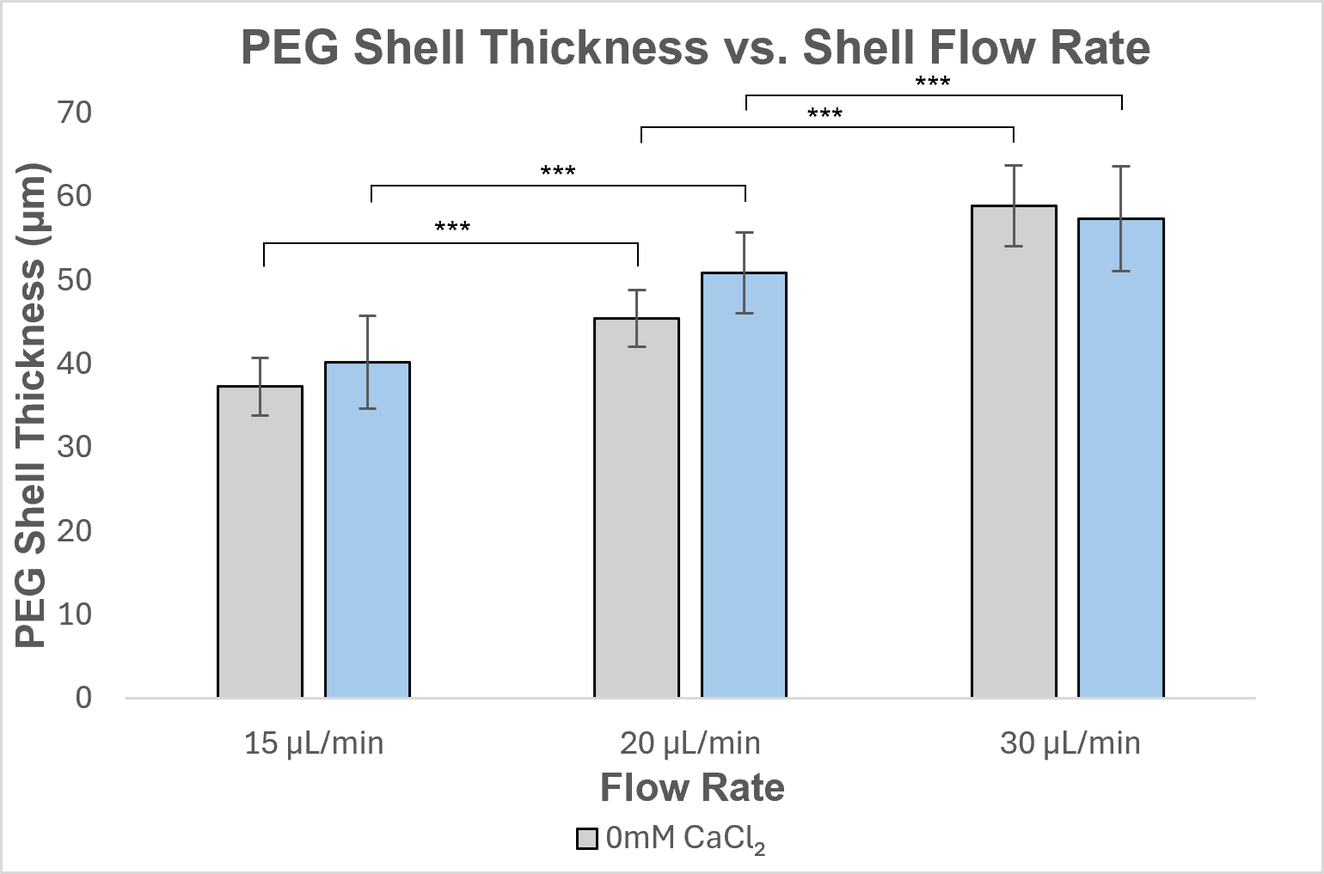
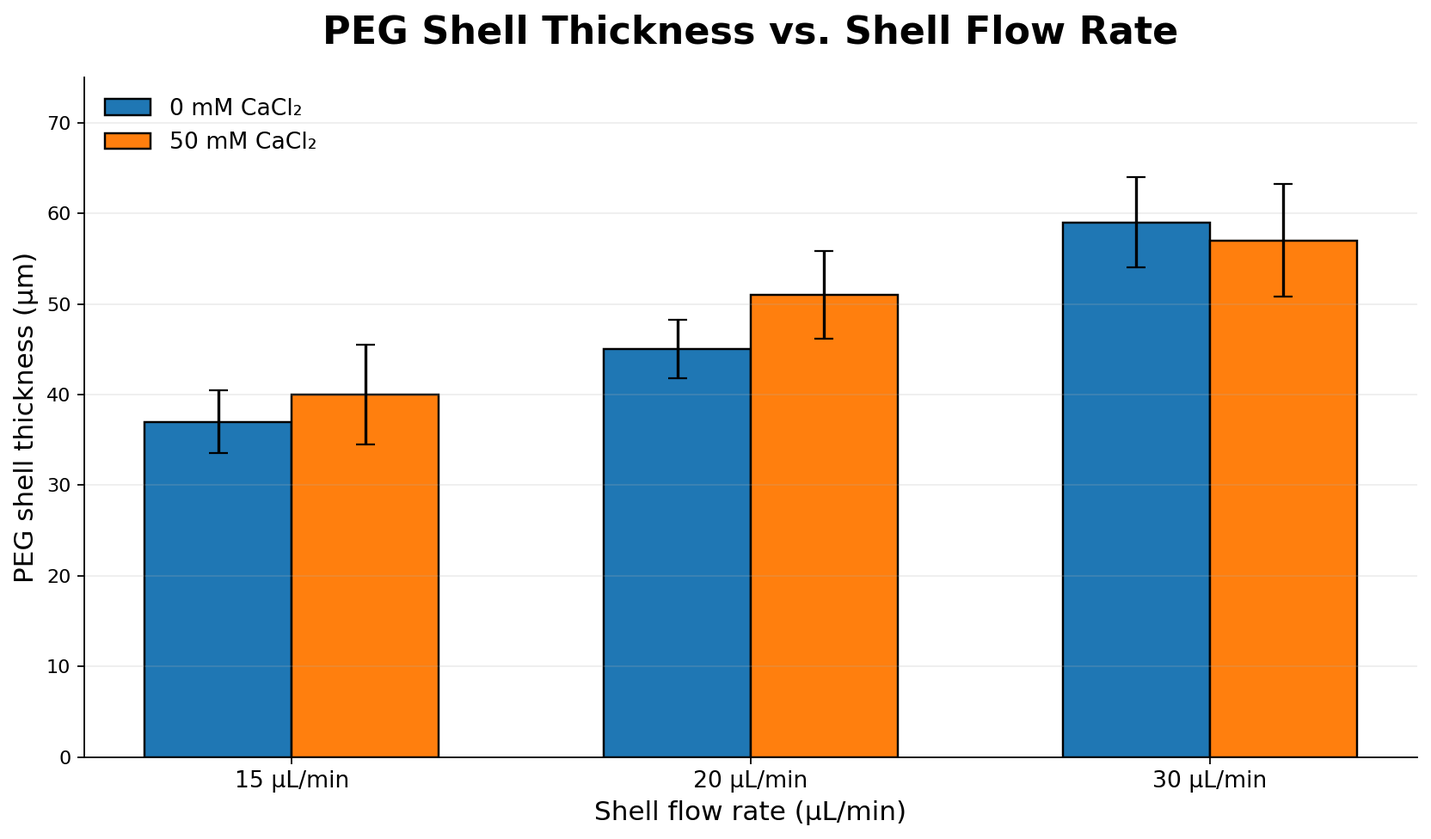
1

diff --git a/assets/css/style.css b/assets/css/style.css
@@ -1750,3 +1750,20 @@ abbr{border-bottom:0!important;text-decoration:none!important;cursor:inherit!imp
     background:rgba(5,10,24,.56)!important;
   }
 }
+
+
+/* --- Resume-specific credibility/readability pass: May 2026 --- */
+:root{--muted:#475569!important;}
+p{color:rgba(15,23,42,.88);}
+.hero-lede,.card p,.case-card p,.portfolio-card p,.artifact-wall-card p,.artifact-card p,.case-file-page p{font-size:1.0625rem;}
+.technical-proof,.home-library,.project-strip,.artifact-wall-section,.case-group,.standard-card-section,.background-depth,.timeline-feature,.background-tool-sidebar{padding-block:clamp(3.5rem,6vw,4.5rem)!important;}
+.homepage-proof-first{padding-bottom:clamp(2.75rem,5vw,4rem)!important;}
+.supporting-home-cases{padding-top:clamp(2.75rem,5vw,4rem)!important;}
+.validation-target-card figure img,.validation-target-grid img{display:block;width:100%;max-width:720px;height:auto;min-height:260px;object-fit:contain;}
+.setup-artifact-card .artifact-image-frame img,.frame-photo img{display:block;width:100%;height:auto;object-fit:contain;}
+.resume-specificity-callout,.lead-result-callout,.leadership-grid{border:1px solid rgba(8,112,139,.16);background:#fff;border-radius:24px;box-shadow:0 18px 48px rgba(15,23,42,.06);padding:clamp(22px,3vw,34px);}
+.resume-specificity-callout strong,.lead-result-callout strong{color:#07111f;}
+.leadership-grid{display:grid;grid-template-columns:repeat(2,minmax(0,1fr));gap:18px;}
+.leadership-grid article{padding:20px;border-radius:18px;background:#f8fafc;border:1px solid rgba(15,23,42,.08);}
+.leadership-grid h3{margin-top:0;}
+@media(max-width:800px){.leadership-grid{grid-template-columns:1fr;}}

diff --git a/index.html b/index.html
@@ -26,8 +26,8 @@ body_class: home-page
  <div class="content-shell">
   <div class="section-heading plain-heading">
    <p class="system-label main-label">Technical screen artifacts</p>
-   <h2>Three artifacts I can walk through in a technical screen.</h2>
-   <p>Each visual connects a physical observation to a process metric or decision.</p>
+   <h2>Three engineering artifacts behind my process work.</h2>
+   <p>Each visual connects a physical observation to a process metric, design-of-experiments (DOE) screen, or decision.</p>
   </div>
   <div class="artifact-wall three-artifact-wall compact-artifact-wall">
    <article class="artifact-wall-card">

diff --git a/projects/micromodular-deposition/index.md b/projects/micromodular-deposition/index.md
@@ -21,7 +21,7 @@ affiliation: Filler Lab · Georgia Tech
   <p class="artifact-label">SYSTEM ROADMAP</p>
   <h2>Where the deposition screen fits</h2>
   <p>The larger process is to fabricate discrete micromodular components, suspend them in an ink, print them into circuit locations, then analyze placement and route printed interconnects.</p>
-  <p>This case file focuses on the deposition step: choosing substrate/backing conditions that place suspended components in a pattern downstream wiring can actually use.</p>
+  <p>This case file focuses on the deposition step: choosing substrate/backing conditions that place suspended components in a pattern downstream wiring can actually use. The screen is structured as design-of-experiments (DOE) thinking: vary the substrate/backing condition, measure placement outputs, and decide whether the condition advances.</p>
  </div>
  <figure class="roadmap-overview-figure">
   <img src="{{ '/assets/images/micromodular-workflow-deposition-focus.png' | relative_url }}" alt="High-level micromodular electronics roadmap from component fabrication to circuit manufacturing, with deposition step highlighted" loading="lazy">
@@ -36,13 +36,13 @@ affiliation: Filler Lab · Georgia Tech
    <div class="artifact-image-frame frame-wide"><img src="{{ '/assets/images/artifact-microdevice-trajectory-overlay-1400.webp' | relative_url }}" alt="Microdevice trajectory overlay relative to the marked droplet center" loading="lazy"></div>
    <figcaption><strong>Figure 1. Video-derived microdevice trajectories overlaid on a microscope frame.</strong> The droplet center is marked, allowing device motion to be decomposed into radial and tangential components. This converts a qualitative drying/deposition video into a substrate-screening artifact.</figcaption>
   </figure>
-  <div class="artifact-meta table-like-meta" aria-label="Public run metadata"><span><strong>Solvent</strong> isopropyl alcohol (IPA)</span><span><strong>Public metric set</strong> radial velocity, tangential velocity, tracking coverage, edge/center deposition tendency</span><span><strong>Quantified context</strong> video-derived trajectory analysis plus AAO/device placement images support the substrate screen</span><span><strong>Analysis status</strong> representative run-level artifact; replicate-backed condition comparison is the next screen</span></div>
+  <div class="artifact-meta table-like-meta" aria-label="Run metadata"><span><strong>Solvent</strong> isopropyl alcohol (IPA)</span><span><strong>Metric set</strong> radial velocity, tangential velocity, tracking coverage, edge/center deposition tendency</span><span><strong>Screening method</strong> substrate/backing design-of-experiments (DOE) logic tied to device placement and downstream interconnect feasibility</span><span><strong>Decision output</strong> advance porous-support conditions that preserve drainage without creating edge-heavy crowding</span></div>
  </article>
  <article class="artifact-card artifact-card-wide substrate-artifact">
   <p class="artifact-label">SUBSTRATE SCREEN</p>
   <figure class="artifact-figure">
    <div class="artifact-image-frame frame-wide"><img src="{{ '/assets/images/micromodular-aao-device-comparison.webp' | relative_url }}" alt="AAO substrate baseline, AAO with deposited microdevices, and single micromodular device" loading="lazy"></div>
-   <figcaption><strong>Figure 2. AAO substrate and microdevice placement context.</strong> The comparison shows the porous anodic aluminum oxide (AAO) surface, a deposited-device field, and the individual micromodular device form factor. This makes the deposition screen specific to placement on AAO-like supports rather than reusing the workflow dashboard from the image-analysis case file.</figcaption>
+   <figcaption><strong>Figure 2. AAO substrate and microdevice placement context.</strong> The comparison shows the porous anodic aluminum oxide (AAO) surface, a deposited-device field, and the individual micromodular device form factor. This makes the deposition screen specific to placement on anodic aluminum oxide (AAO)-like supports and connects substrate choice to downstream wiring feasibility.</figcaption>
   </figure>
  </article>
  <article class="artifact-card artifact-card-wide compact-artifact">
@@ -102,7 +102,7 @@ Good deposition means uniform areal density, low edge bias, usable placement for
 ## Next run
 
 <div class="next-iteration-callout">
- <p>The next iteration should set a replicate-backed edge/center ratio and density-uniformity threshold, then compare AAO-like skins against cheaper and less brittle porous supports. The first condition to advance is the porous-support family that preserves drainage without creating edge-heavy crowding.</p>
+ <p>The next iteration should set an edge/center ratio and density-uniformity threshold, then compare AAO-like skins against cheaper and less brittle porous supports. The first condition to advance is the porous-support family that preserves drainage without creating edge-heavy crowding.</p>
 </div>
 
 ## What I owned
@@ -110,7 +110,7 @@ Good deposition means uniform areal density, low edge bias, usable placement for
 <div class="artifact-table-wrap"><table class="artifact-table"><thead><tr><th>Area</th><th>Contribution</th></tr></thead><tbody>
 <tr><td>Experimental design</td><td>Substrate/backing comparisons, droplet setup, run-to-run comparison, and early screen logic.</td></tr>
 <tr><td>Imaging</td><td>Top-view and side-view capture for footprint, contact-line, and final placement behavior.</td></tr>
-<tr><td>Analysis</td><td>Python/ImageJ extraction of normalized contact-line traces and deposition metrics.</td></tr>
+<tr><td>Analysis</td><td>Python/OpenCV and ImageJ extraction of normalized contact-line traces, placement metrics, and deposition-screen outputs.</td></tr>
 <tr><td>Decision output</td><td>Early gate for whether a substrate/backing condition should advance toward downstream interconnect printing.</td></tr>
 </tbody></table></div>
 

diff --git a/projects/printed-interconnect-reliability/index.md b/projects/printed-interconnect-reliability/index.md
@@ -8,9 +8,9 @@ prev_title: Micromodular Electronics Deposition
 prev_url: /projects/micromodular-deposition/
 next_title: Thermocycler Process Automation
 next_url: /projects/thermocycler-process-automation/
-metric_chips: '<span>Failure logic</span><span>Normalized resistance drift screen</span>'
-description: Printed interconnect reliability case file using resistance drift, stress intervals, and failure classes to guide upstream process checks.
-subtitle: Printed-line testing reframed as a reliability screen that maps resistance behavior back to upstream process checks.
+metric_chips: '<span>4-point probe · Keithley SMU</span><span>~30% yield-loss reduction</span>'
+description: Printed interconnect reliability case file using 4-point probe, Keithley SMU measurements, normalized resistance drift, and failure classes to guide upstream process checks.
+subtitle: 4-point probe and Keithley SMU reliability screening mapped resistance behavior back to upstream print, cure, stress, and measurement checks.
 body_class: case-file-page printed-interconnect-reliability
 affiliation: Filler Lab · Georgia Tech
 ---
@@ -30,23 +30,23 @@ affiliation: Filler Lab · Georgia Tech
    <figcaption><strong>Figure 2. Representative normalized resistance drift screen.</strong> Resistance normalized to its initial value as a resistance ratio (R/R₀) separates stable traces, smooth drift, intermittent behavior, and threshold crossings that should trigger upstream process checks.</figcaption>
   </figure>
  </article>
- <article class="artifact-card artifact-card-wide evidence-status-card">
-  <p class="artifact-label">EVIDENCE STATUS</p>
-  <h2>Public view shows the screen architecture and failure-decision logic.</h2>
-  <p>Stress-protocol data and microscope evidence can be discussed separately where appropriate. This public page shows the control-plan structure: what should be measured, how failure classes map upstream, and how normalized resistance drift can reveal process-built vulnerability without exposing full unpublished stress data.</p>
+ <article class="artifact-card artifact-card-wide lead-result-callout">
+  <p class="artifact-label">RESULT</p>
+  <h2>Normalized resistance drift separated true failure from measurement artifact.</h2>
+  <p>Across stress intervals, normalized resistance drift (R/R₀ via 4-point probe and Keithley SMU) separated true failure from measurement artifact and cut yield loss by ~30% by routing each failure class back to a specific upstream check.</p>
  </article>
 </section>
 
 <section class="ownership-callout ownership-callout-large lead-ownership-callout">
- <p><strong>What I owned:</strong> the reliability-screen logic, normalized resistance-ratio framing, and the pass / monitor / fail / artifact decision table that maps electrical behavior back to print, cure, stress, and measurement checks.</p>
+ <p><strong>What I owned:</strong> the reliability-screen logic, normalized resistance-ratio framing, 4-point probe / Keithley SMU measurement plan, and the pass / monitor / fail / artifact decision table that maps electrical behavior back to print, cure, stress, and measurement checks.</p>
 </section>
 
 <section class="artifact-panel setup-snapshot">
  <h2>Setup</h2>
  <ul class="snapshot-list">
-  <li><strong>System:</strong> printed interconnect lines measured before and after stress intervals.</li>
+  <li><strong>System:</strong> printed interconnect lines and printed microdevice performance measured before and after stress intervals.</li>
   <li><strong>Inputs handled:</strong> initial resistance, normalized resistance drift (R/R₀), stress timing, probe/contact state, and physical inspection notes.</li>
-  <li><strong>Outputs:</strong> pass, monitor, fail, and artifact classes that point to upstream print, cure, handling, or measurement checks.</li>
+  <li><strong>Outputs:</strong> pass, monitor, fail, and artifact classes that point to upstream print, cure, handling, or measurement checks; Id–Vg/Id–Vd sweep context when transistor behavior needs source-measure unit validation.</li>
  </ul>
 </section>
 

diff --git a/background/index.md b/background/index.md
@@ -47,7 +47,7 @@ last_updated: May 2026
 <section id="earlier-work" class="earlier-work-block artifact-panel standard-card-section">
  <h2>Before process engineering</h2>
  <div class="two-column-evidence">
-  <article id="qsr-mini-case"><h3>Quick-Service Restaurant (QSR) operations</h3><p>Peak-hour service taught bottleneck thinking, line balancing, changeover discipline, preventive maintenance, and shipping under pressure. One improvement cycle produced a +20% cars/hr increase during peak shifts, based on shift-level throughput tracking.</p><span class="outcome-badge">+20% cars/hr</span></article>
+  <article id="qsr-mini-case"><h3>Shift Manager at McDonald’s</h3><p>Peak-hour service taught bottleneck thinking, line balancing, changeover discipline, preventive maintenance, and shipping under pressure. Improvement cycles increased cars/hr by ~20%, reduced order-to-handoff time by ~15%, and cut downtime by ~30% during shift operations.</p><span class="outcome-badge">+20% cars/hr · −15% handoff · −30% downtime</span></article>
   <article><h3>Early assay research</h3><p>Mayo Clinic DNA/PCR tagmentation work gave early exposure to protocol controls, repeatability, contamination risk, and troubleshooting loops. The transferable lesson was discipline: control what changes, document what failed, and rerun only after the failure mode is named.</p><span class="outcome-badge">PCR controls</span></article>
  </div>
 </section>
@@ -55,6 +55,15 @@ last_updated: May 2026
 <section class="mcdonalds-mini-case pull-quote-block">
  <p class="system-label">Operator-to-process-engineer arc</p>
  <p>Visible failure is usually late evidence. Prep, sequencing, staffing, equipment uptime, and handoff timing often decide the outcome before the miss appears. That operator instinct now shows up in how I read wet-lab workflows and early manufacturing screens.</p>
+</section>
+
+
+<section class="leadership-section artifact-panel standard-card-section" aria-label="Leadership and consulting">
+ <h2>Leadership and applied problem-solving</h2>
+ <div class="leadership-grid">
+  <article><h3>Founder &amp; President · Nanotechnology Club</h3><p>Built a student organization around making nanotechnology more accessible through discussion, demos, and project-based technical curiosity.</p></article>
+  <article><h3>Pro-bono Consultant · Consult Your Community</h3><p>Worked on client-facing problem definition, research, recommendation framing, and implementation logic for a nonprofit/community partner.</p></article>
+ </div>
 </section>
 
 <section class="background-tool-sidebar tools-section">
@@ -65,7 +74,7 @@ last_updated: May 2026
  <div class="skill-use-grid logo-tool-grid">
   <div class="skill-use"><span class="tool-logo">Py</span><h3>Python</h3><p>Image analysis, droplet tracking, data processing, plotting, and workflow automation; built the droplet-tracking workflow behind the deposition case files.</p></div>
   <div class="skill-use"><span class="tool-logo">M</span><h3>MATLAB</h3><p>Numerical methods, engineering computation, ODE workflows, and course-based modeling.</p></div>
-  <div class="skill-use"><span class="tool-logo">J</span><h3>JMP</h3><p>analysis of variance (ANOVA), reliability/statistical analysis, comparisons, and experimental interpretation.</p></div>
+  <div class="skill-use"><span class="tool-logo">J</span><h3>JMP</h3><p>design-of-experiments (DOE), analysis of variance (ANOVA), reliability/statistical analysis, comparisons, and experimental interpretation.</p></div>
   <div class="skill-use"><span class="tool-logo">A</span><h3>Aspen</h3><p>Process simulation, thermodynamics, separations, vapor-liquid equilibrium reasoning, and assumption-transparent flowsheets.</p></div>
   <div class="skill-use"><span class="tool-logo">IJ</span><h3>ImageJ/Fiji</h3><p>Microscopy/video segmentation, image calibration, and experimental measurement support.</p></div>
  </div>

diff --git a/projects/droplet-image-analysis-workflows/index.md b/projects/droplet-image-analysis-workflows/index.md
@@ -10,7 +10,7 @@ next_title: Stem-Cell Microencapsulation
 next_url: /projects/microencapsulation-process-development/
 metric_chips: '<span>Video → metric</span><span>Segmentation workflow</span>'
 description: Image-analysis case file turning microscopy videos into calibrated droplet traces, critical-to-quality measurement notes, and QC-ready outputs.
-subtitle: Microscopy-video workflows for converting droplet behavior into calibrated time-series outputs.
+subtitle: Python/OpenCV microscopy-video workflows for converting droplet behavior into calibrated time-series outputs.
 body_class: case-file-page droplet-image-analysis-workflows
 affiliation: Filler Lab · Georgia Tech
 ---
@@ -18,12 +18,12 @@ affiliation: Filler Lab · Georgia Tech
 <section class="analysis-pipeline-card lead-pipeline-card">
  <p class="artifact-label">METHOD PIPELINE</p>
  <h2>Raw video → calibration → object detection → track linking → radial/tangential decomposition → dashboard export</h2>
- <p>The workflow turns microscopy frames into auditable process metrics, so runs can be compared by motion, coverage, and deposition behavior instead of visual impression alone.</p>
+ <p>The Python/OpenCV workflow turns microscopy frames into auditable process metrics, so runs can be compared by motion, coverage, and deposition behavior instead of visual impression alone.</p>
 </section>
 
 <section class="ownership-callout ownership-callout-large lead-ownership-callout">
- <p><strong>What I owned:</strong> the raw-video-to-metric workflow, frame calibration logic, track-linking checks, radial/tangential decomposition, and dashboard export structure.</p>
- <p class="ownership-metric"><strong>Quantified context:</strong> the exported dashboard carries four time-series views from a representative droplet run: population speed, radial velocity, angular-velocity tendency, and tracking coverage.</p>
+ <p><strong>What I owned:</strong> the Python/OpenCV raw-video-to-metric workflow, frame calibration logic, track-linking checks, radial/tangential decomposition, and dashboard export structure.</p>
+ <p class="ownership-metric"><strong>Quantified context:</strong> the exported dashboard carries four time-series views from each processed droplet run: population speed, radial velocity, angular-velocity tendency, and tracking coverage.</p>
 </section>
 
 <section class="artifact-grid artifact-grid-two" aria-label="Droplet image analysis artifacts">
@@ -51,7 +51,7 @@ affiliation: Filler Lab · Georgia Tech
  <article class="artifact-card setup-artifact-card">
   <p class="artifact-label">MEASUREMENT SETUP</p>
   <figure class="artifact-figure">
-   <div class="artifact-image-frame frame-photo"><img src="{{ '/assets/images/artifact-rame-hart-goniometer-cropped.webp' | relative_url }}" alt="Cropped Rame-Hart goniometer setup" loading="lazy"></div>
+   <div class="artifact-image-frame frame-photo"><img src="{{ '/assets/images/artifact-rame-hart-goniometer-cropped.jpg' | relative_url }}" alt="Cropped Rame-Hart goniometer setup" loading="lazy"></div>
    <figcaption><strong>Figure 4. Rame-Hart goniometer setup.</strong> Setup image for droplet shape, contact angle, and volume/time characterization.</figcaption>
   </figure>
  </article>
@@ -63,6 +63,7 @@ affiliation: Filler Lab · Georgia Tech
   <li><strong>System:</strong> microscopy videos of droplets used to compare wetting, contact-line motion, and deposition behavior.</li>
   <li><strong>Inputs handled:</strong> frame rate, pixel calibration, crop region, segmentation settings, and trace export format.</li>
   <li><strong>Outputs:</strong> normalized radius traces, contact-line classifications, critical-to-quality measurement notes, and export-ready tables for comparing runs.</li>
+  <li><strong>Stack:</strong> Python, OpenCV, ImageJ/Fiji, and export-ready plotting for run comparison.</li>
  </ul>
 </section>
 

diff --git a/projects/thermocycler-process-automation/index.md b/projects/thermocycler-process-automation/index.md
@@ -8,9 +8,9 @@ prev_title: Printed Interconnect Reliability
 prev_url: /projects/printed-interconnect-reliability/
 next_title: Thin-Film Characterization-to-Process Logic
 next_url: /projects/thin-film-semiconductor-research/
-metric_chips: '<span>Control prototype</span><span>Thermal validation metrics</span>'
-description: Thermocycler automation case file focused on thermal-control validation, ramp rate, overshoot, settling time, and hold stability.
-subtitle: PCR thermal-control prototype focused on whether the sample region sees the intended thermal history.
+metric_chips: '<span>ESP32/Arduino</span><span>PID thermal control</span><span>Nanoliter qPCR</span>'
+description: ESP32/Arduino thermocycler automation case file for nanoliter qPCR, PID thermal control, ramp rate, overshoot, settling time, and hold stability.
+subtitle: ESP32/Arduino-controlled thermocycling automation for nanoliter qPCR, focused on whether the sample region sees the intended thermal history.
 body_class: case-file-page thermocycler-process-automation
 affiliation: Mayo Clinic · Rochester, MN
 ---
@@ -41,13 +41,13 @@ affiliation: Mayo Clinic · Rochester, MN
 </section>
 
 <section class="ownership-callout ownership-callout-large lead-ownership-callout">
- <p><strong>What I owned:</strong> control-logic implementation, thermal-state sequencing, hardware integration support, and validation criteria for ramp rate, overshoot, hold stability, and cycle repeatability.</p>
+ <p><strong>What I owned:</strong> ESP32/Arduino control-logic implementation, thermal-state sequencing, hardware integration support, and validation criteria for ramp rate, overshoot, hold stability, and cycle repeatability.</p>
  <p class="ownership-metric"><strong>Quantified context:</strong> the controller structure organizes three polymerase chain reaction (PCR) temperature stages and four validation targets before final sample-region temperature verification.</p>
 </section>
 
 <section class="artifact-panel setup-snapshot">
  <h2>Setup</h2>
- <p>This thermocycler work supported biological PCR: denaturation, annealing, and extension temperature setpoints repeated across cycles, where actual sample-region temperature determines whether the protocol works.</p>
+ <p><strong>Sensor placement and thermal lag dominated apparent controller performance.</strong> This thermocycler work supported biological PCR: denaturation, annealing, and extension temperature setpoints repeated across cycles, where actual sample-region temperature determines whether the protocol works.</p>
  <ul class="snapshot-list">
   <li><strong>Controlled variables:</strong> denaturation, annealing, and extension setpoints.</li>
   <li><strong>Logged variables:</strong> measured block temperature versus time.</li>
@@ -92,7 +92,7 @@ if hold_timer_done():
  <div class="validation-target-grid">
   <div>
    <h2>Setpoint vs. measured-temperature trace</h2>
-   <p>Validation is judged by ramp rate, overshoot, settling time, hold stability, and cycle repeatability. The control code matters because it has to produce the intended thermal history at the sample region.</p>
+   <p>Validation is judged by ramp rate, overshoot, settling time, hold stability, and cycle repeatability. The ESP32/Arduino control code matters because it has to produce the intended thermal history at the nanoliter sample region.</p>
   </div>
   <figure>
    <img src="{{ '/assets/images/thermocycler-profile.svg' | relative_url }}" alt="Representative setpoint versus measured temperature profile" loading="lazy">

diff --git a/projects/thin-film-semiconductor-research/index.md b/projects/thin-film-semiconductor-research/index.md
@@ -1,7 +1,7 @@
 ---
 layout: page
 title: Thin-Film Characterization-to-Process Logic
-category: Materials · semiconductors · Georgia Tech coursework/research
+category: Materials · semiconductors · Georgia Tech
 date_range: 2025–present
 last_updated: May 2026
 prev_title: Thermocycler Process Automation
@@ -12,7 +12,7 @@ metric_chips: '<span>Process response</span><span>Characterization matrix</span>
 description: Thin-film semiconductor research case file linking growth conditions to characterization readouts and process decisions.
 subtitle: A characterization readout becomes useful when it tells you whether the growth condition, substrate, or handling path should change.
 body_class: case-file-page thin-film-semiconductor-research
-affiliation: Georgia Tech materials / semiconductor process framing
+affiliation: Georgia Tech materials / semiconductor characterization
 ---
 
 <section class="artifact-stack materials-artifacts" aria-label="Thin-film semiconductor research artifacts">
@@ -26,7 +26,7 @@ affiliation: Georgia Tech materials / semiconductor process framing
 </section>
 
 <section class="ownership-callout ownership-callout-large lead-ownership-callout">
- <p><strong>What I owned:</strong> the characterization-to-process framing, the readout limitation matrix, and the next-run control-plan logic for deciding when a film-growth condition should change.</p>
+ <p><strong>What I owned:</strong> the characterization-to-process framing, the readout limitation matrix, and the next-run control-plan logic for deciding when a film-growth condition should change. This page is kept as a process-logic case file rather than a data-claim page because no unpublished spectra are shown here.</p>
 </section>
 
 <section class="artifact-panel setup-snapshot">
@@ -34,7 +34,7 @@ affiliation: Georgia Tech materials / semiconductor process framing
  <ul class="snapshot-list">
   <li><strong>System:</strong> thin-film semiconductor research where growth condition, substrate state, and characterization readout have to be interpreted together.</li>
   <li><strong>Inputs handled:</strong> growth condition, sample identity, processing history, characterization method, and comparison baseline.</li>
-  <li><strong>Outputs:</strong> scanning electron microscopy (SEM), X-ray diffraction (XRD), and X-ray photoelectron spectroscopy (XPS) readouts tied to whether a process condition should be changed.</li>
+  <li><strong>Outputs:</strong> scanning electron microscopy (SEM), X-ray diffraction (XRD), Raman spectroscopy, and X-ray photoelectron spectroscopy (XPS) readouts tied to whether a process condition should be changed.</li>
  </ul>
 </section>
 

diff --git a/projects/index.md b/projects/index.md
@@ -2,14 +2,14 @@
 layout: page
 title: Engineering Case Files
 category: Selected work
-subtitle: Six case files across wet-processing, microfluidics, printed-electronics reliability, automation, materials characterization, and image analysis.
+subtitle: Six engineering case files tying physical observations to process decisions, with measurable wins in microfluidic throughput and usable yield.
 description: Engineering case files for wet processing, microfluidics, printed electronics reliability, automation, materials, and image-analysis workflows.
 body_class: projects-page
 last_updated: May 2026
 ---
 
 <section class="projects-index-hero startup-projects-hero plain-prose-section" aria-label="Projects introduction">
- <p>Six case files across wet-processing, microfluidics, printed-electronics reliability, automation, materials characterization, and image analysis. Each case names what was measured, what changed, and what I would run next.</p>
+ <p>Six engineering case files. Two shipped measurable wins — 20× throughput and ~50% usable-yield — and all six tie a physical observation to a process decision, measurement workflow, or design-of-experiments (DOE) screen.</p>
  <div class="case-filter-bar" aria-label="Filter case files">
   <button type="button" class="filter-chip is-active" data-filter="all">All</button>
   <button type="button" class="filter-chip" data-filter="wet">Wet processing</button>

diff --git a/projects/microencapsulation-process-development/index.md b/projects/microencapsulation-process-development/index.md
@@ -27,7 +27,7 @@ affiliation: Mayo Clinic · Rochester, MN
   <p class="artifact-label">QUANTITATIVE OUTPUT</p>
   <figure class="artifact-figure">
    <div class="artifact-image-frame frame-chart"><img src="{{ '/assets/images/artifact-peg-shell-thickness-1200.webp' | relative_url }}" alt="PEG shell thickness versus shell flow rate chart" loading="lazy"></div>
-   <figcaption><strong>Figure 2. PEG shell thickness as a function of shell flow rate.</strong> The exported analysis image shows shell-thickness increasing across tested shell-flow settings, supporting flow rate as a structural process lever.</figcaption>
+   <figcaption><strong>Figure 2. PEG shell thickness as a function of shell flow rate.</strong> The chart separates 0 mM and 50 mM calcium chloride conditions and shows shell-thickness increasing across tested shell-flow settings, supporting flow rate and crosslinking condition as structural process levers.</figcaption>
   </figure>
  </article>
  <article class="artifact-card artifact-card-wide">

diff --git a/CHANGELOG_RESUME_SPECIFICITY_PASS_MAY_2026.md b/CHANGELOG_RESUME_SPECIFICITY_PASS_MAY_2026.md
@@ -1,0 +1,12 @@
+# Resume-Specificity Implementation Pass — May 2026
+
+Implemented in one pass:
+
+- Pulled concrete resume-level details into the site: Keithley SMU, 4-point probe, Id–Vg/Id–Vd sweeps, ESP32/Arduino, nanoliter qPCR, Python/OpenCV, and DOE language.
+- Replaced hedged evidence language on Printed Interconnect Reliability with a result-led R/R₀ / ~30% yield-loss sentence.
+- Added thermocycler hardware-stack language and replaced the validation-trace SVG with a full-size setpoint-vs-measured-temperature figure.
+- Rebuilt the PEG shell-thickness chart with a complete two-series legend.
+- Fixed Droplet Fig. 4 image fallback and regenerated the WebP asset.
+- Tightened site-wide body copy contrast and section spacing.
+- Added McDonald’s operator metrics and a Leadership block for Nanotechnology Club and Consult Your Community.
+- Removed/rewrote visible meta-commentary that made pages sound apologetic or unfinished.

diff --git a/contact/index.md b/contact/index.md
@@ -16,7 +16,7 @@ last_updated: May 2026
  </div>
  <div class="contact-button-row prominent-contact-buttons">
   <a class="button primary email-button" href="mailto:{{ site.email }}?subject=Portfolio%20conversation">Email Nathan →</a>
-  <a class="button secondary" href="mailto:{{ site.email }}?subject=Scheduling%20a%20portfolio%20call&body=Hi%20Nathan%2C%0A%0AI%27d%20like%20to%20schedule%20a%20call%20about...">Schedule a call →</a>
+  <a class="button secondary" href="mailto:{{ site.email }}?subject=Scheduling%20a%20portfolio%20call&body=Hi%20Nathan%2C%0A%0AI%27d%20like%20to%20schedule%20a%20call%20about...">Email to schedule →</a>
   <a class="button secondary" href="{{ site.linkedin }}">LinkedIn</a>
   <a class="button secondary" href="{{ site.github }}">GitHub</a>
   <a class="button secondary" href="{{ '/assets/files/Nathan_Anderson_Resume.pdf' | relative_url }}" download="Nathan_Anderson_Resume.pdf">View resume (PDF)</a>
